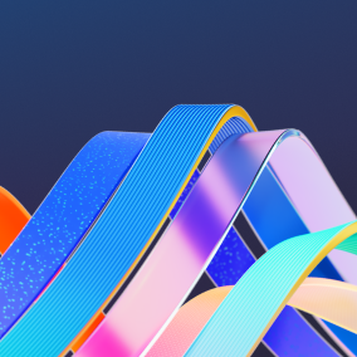
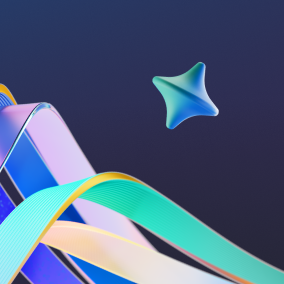
Move cell border next to images and re-crop navigator with star
- Set image columns to width=150 so border sits tight against image
- Re-cropped ai-skills-navigator-square.png from right side of original (with star)

diff --git a/docs/skills-hub.md b/docs/skills-hub.md
@@ -6,12 +6,12 @@ From Build inspiration to real-world creation – your next move starts now. Whe
 
 <table>
 <tr>
-<td width="56%" valign="top">
+<td valign="top">
 <h3>Register now for AI Skills Fest!</h3>
 <p>Join us online for a week of practical skill building at no cost and earn rewards as you complete content curated for your role. Powered by AI Skills Navigator - an agentic learning space.</p>
 <p><a href="https://www.microsoft.com/en-us/ai/skills-fest">Register now</a></p>
 </td>
-<td width="44%" valign="top" align="right">
+<td width="150" valign="top" align="right">
 <img src="img/ai-skills-fest-square.png" alt="AI Skills Fest" width="150" />
 </td>
 </tr>
@@ -21,10 +21,10 @@ From Build inspiration to real-world creation – your next move starts now. Whe
 
 <table>
 <tr>
-<td width="44%" valign="top" align="left">
+<td width="150" valign="top" align="left">
 <img src="img/credentials.png" alt="Microsoft Credentials" width="150" />
 </td>
-<td width="56%" valign="top">
+<td valign="top">
 <p><a href="https://aiskillsnavigator.microsoft.com/credentials?UTM_Source=BLD_Webpage&UTM_Medium=Webpage&UTM_Campaign=NextSteps">Discover credentials on AI</a></p>
 <p><a href="https://gh.io/copilot-proficiency">Join the Insider's list</a> to get exclusive early access to the Microsoft ProBadge: GitHub Copilot - powered by Verified Proficiencies</p>
 </td>
@@ -35,11 +35,11 @@ From Build inspiration to real-world creation – your next move starts now. Whe
 
 <table>
 <tr>
-<td width="56%" valign="top">
+<td valign="top">
 <p>AI Skills Navigator is an agentic learning space, bringing together AI, cloud, and security training into one seamless, connected skilling experience to help you build career skills.</p>
 <p><a href="https://aiskillsnavigator.microsoft.com">Get started</a></p>
 </td>
-<td width="44%" valign="top" align="right">
+<td width="150" valign="top" align="right">
 <img src="img/ai-skills-navigator-square.png" alt="AI Skills Navigator" width="150" />
 </td>
 </tr>